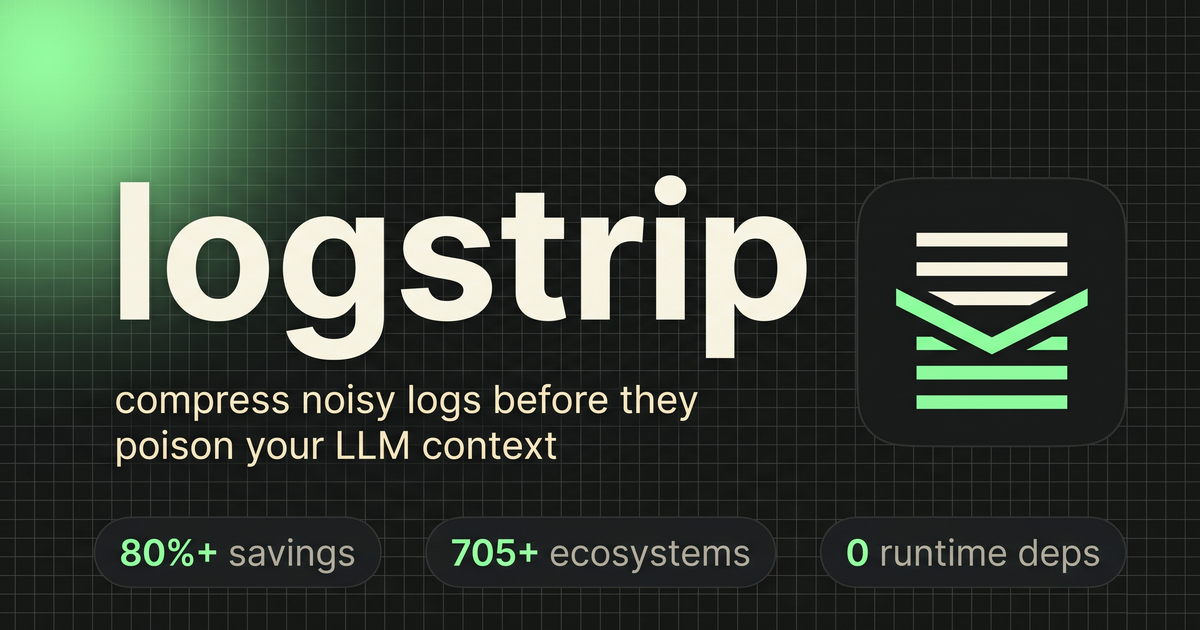
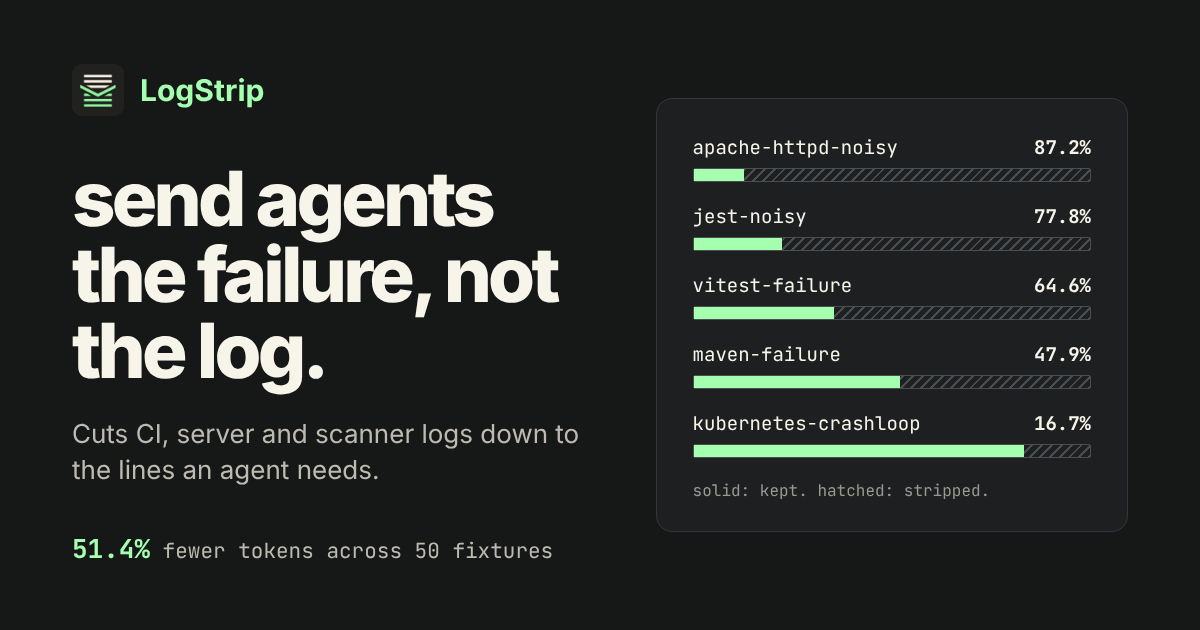
docs: replace the share image with measured savings
The old card claimed 80%+ savings, which no fixture backs. The new one
shows five measured fixtures, including the weakest, and its HTML source
is kept in apps/docs/og.

diff --git a/apps/docs/og/og-image.html b/apps/docs/og/og-image.html
@@ -1,0 +1,130 @@
+<!doctype html>
+<!--
+  Source of apps/docs/public/assets/images/og-image-1200x630.png (and .webp).
+  To regenerate, open this file in a browser at 1200x630 and take a screenshot,
+  for example with Playwright: page.setViewportSize({ width: 1200, height: 630 }).
+  The bars and the headline number are the measured savings in
+  apps/docs/src/data/benchmarks.json (npm run docs:bench). Update them by hand
+  when that file changes.
+-->
+<html lang="en">
+  <head>
+    <meta charset="utf-8" />
+    <title>LogStrip OG image</title>
+    <style>
+      * {
+        box-sizing: border-box;
+      }
+      body {
+        width: 1200px;
+        height: 630px;
+        margin: 0;
+        overflow: hidden;
+        background: #161818;
+        color: #f7f4ea;
+        font-family: Inter, 'Segoe UI', system-ui, sans-serif;
+      }
+      .wrap {
+        display: grid;
+        grid-template-columns: 1.1fr 1fr;
+        gap: 64px;
+        height: 100%;
+        padding: 64px 72px;
+      }
+      .brand {
+        display: flex;
+        align-items: center;
+        gap: 16px;
+        font-size: 30px;
+        font-weight: 700;
+        color: #a4ffaf;
+      }
+      .brand img {
+        width: 52px;
+        height: 52px;
+      }
+      h1 {
+        margin: 44px 0 0;
+        font-size: 76px;
+        font-weight: 800;
+        line-height: 1;
+        letter-spacing: -0.05em;
+      }
+      p {
+        margin: 28px 0 0;
+        max-width: 520px;
+        color: #bdbbb1;
+        font-size: 26px;
+        line-height: 1.4;
+      }
+      .left {
+        display: flex;
+        flex-direction: column;
+      }
+      .total {
+        margin-top: auto;
+        font-family: 'JetBrains Mono', ui-monospace, monospace;
+        font-size: 21px;
+        color: #bdbbb1;
+      }
+      .total strong {
+        color: #a4ffaf;
+        font-size: 26px;
+      }
+      .right {
+        align-self: center;
+        padding: 36px 36px 28px;
+        border: 1px solid #34373a;
+        border-radius: 16px;
+        background: #1d1f20;
+      }
+      .row {
+        display: grid;
+        grid-template-columns: 1fr 74px;
+        gap: 8px 12px;
+        margin-bottom: 22px;
+        font-family: 'JetBrains Mono', ui-monospace, monospace;
+        font-size: 19px;
+      }
+      .row b {
+        text-align: right;
+      }
+      .bar {
+        grid-column: 1 / -1;
+        height: 14px;
+        border: 1px solid #4a4e51;
+        border-radius: 2px;
+        background: repeating-linear-gradient(135deg, #4a4e51 0 2px, transparent 2px 7px);
+      }
+      .bar i {
+        display: block;
+        height: 100%;
+        background: #a4ffaf;
+      }
+      .legend {
+        margin: 4px 0 0;
+        font-family: 'JetBrains Mono', ui-monospace, monospace;
+        font-size: 16px;
+        color: #9a998f;
+      }
+    </style>
+  </head>
+  <body>
+    <div class="wrap">
+      <div class="left">
+        <div class="brand"><img src="../public/assets/images/logo-icon-256.png" alt="" />LogStrip</div>
+        <h1>send agents the failure, not the log.</h1>
+        <p>Cuts CI, server and scanner logs down to the lines an agent needs.</p>
+        <div class="total"><strong>51.4%</strong> fewer tokens across 50 fixtures</div>
+      </div>
+      <div class="right">
+        <div class="row"><span>apache-httpd-noisy</span><b>87.2%</b><span class="bar"><i style="width: 12.8%"></i></span></div>
+        <div class="row"><span>jest-noisy</span><b>77.8%</b><span class="bar"><i style="width: 22.2%"></i></span></div>
+        <div class="row"><span>vitest-failure</span><b>64.6%</b><span class="bar"><i style="width: 35.4%"></i></span></div>
+        <div class="row"><span>maven-failure</span><b>47.9%</b><span class="bar"><i style="width: 52.1%"></i></span></div>
+        <div class="row"><span>kubernetes-crashloop</span><b>16.7%</b><span class="bar"><i style="width: 83.3%"></i></span></div>
+        <p class="legend">solid: kept. hatched: stripped.</p>
+      </div>
+    </div>
+  </body>
+</html>
